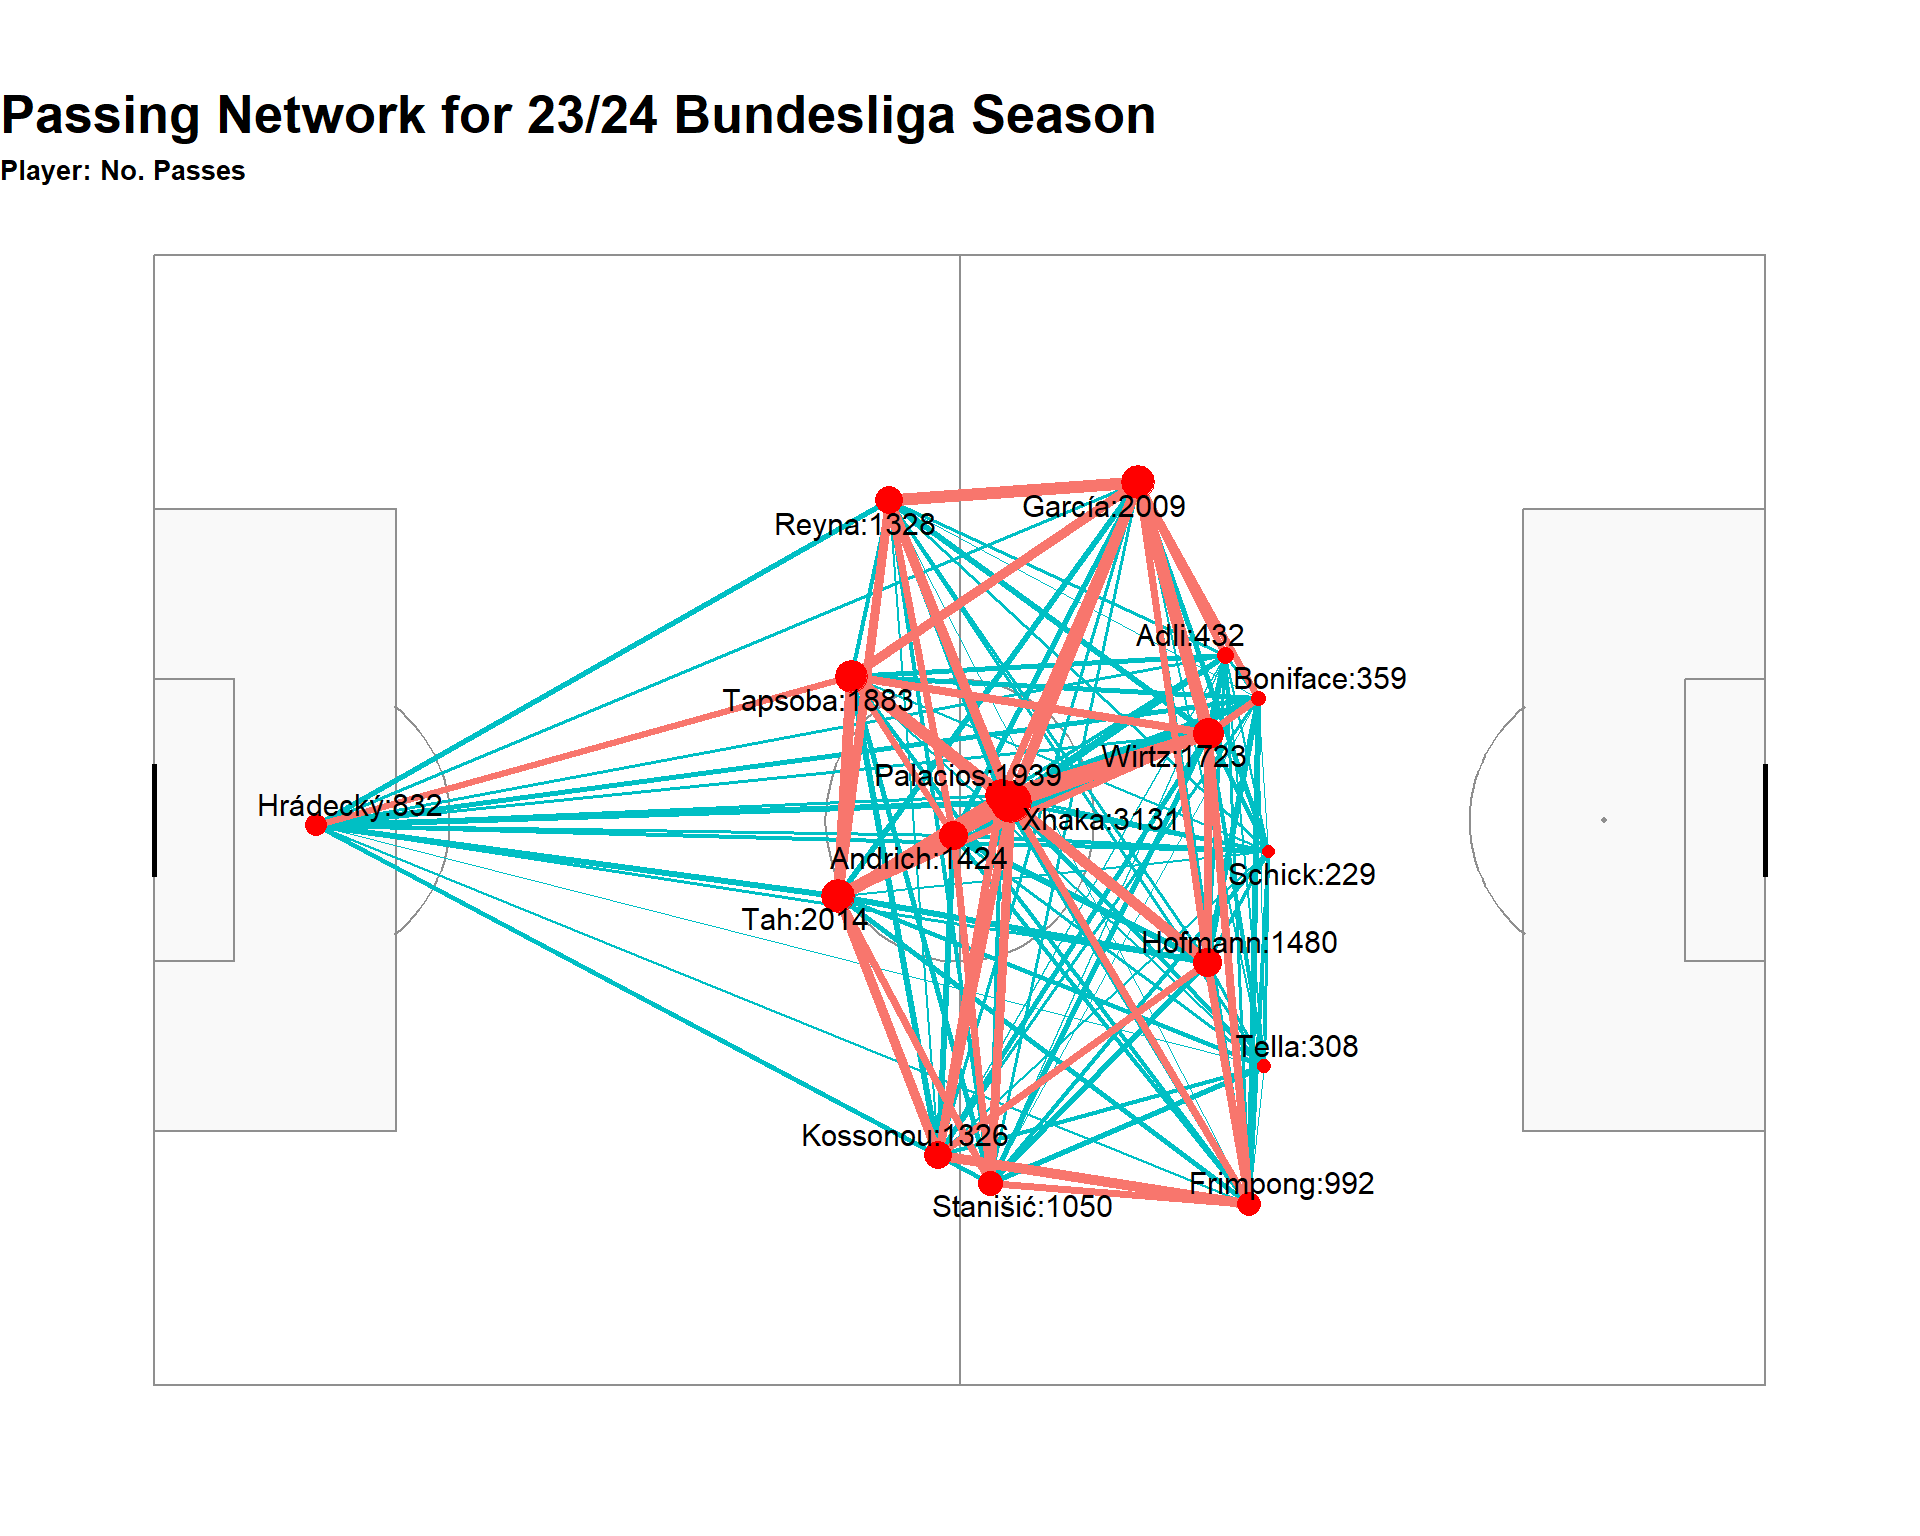
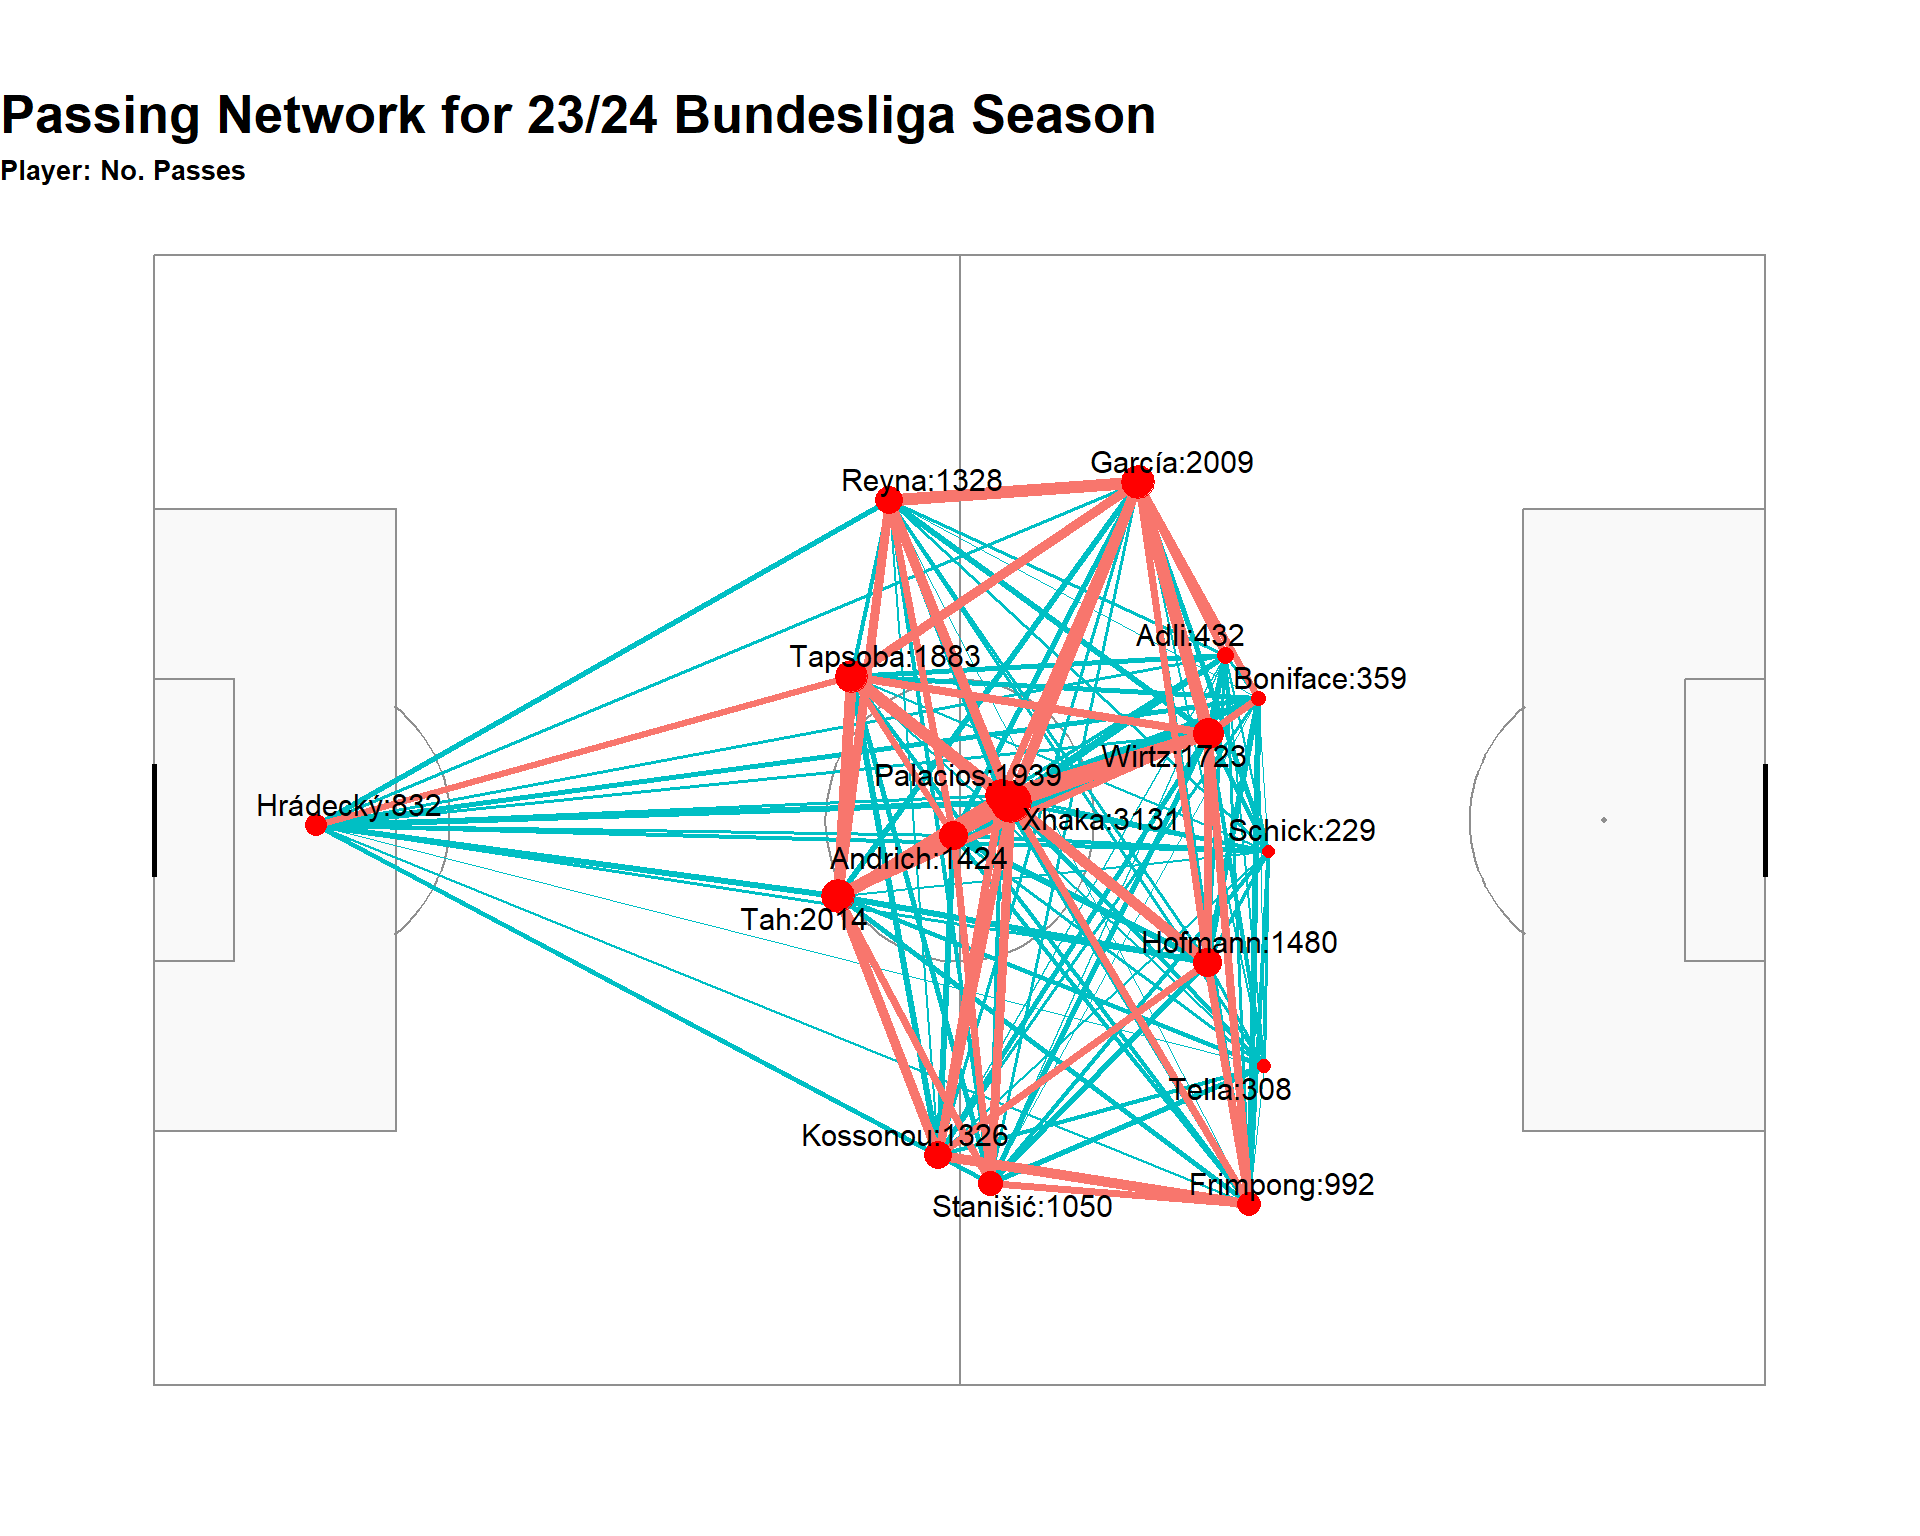
Built site for gh-pages

diff --git a/Injury Viz/post.html b/Injury Viz/post.html
@@ -209,12 +209,12 @@ window.Quarto = {
 <p>Some independent data scraping and visualisation of my own has painted a similar picture. Check out the correlation between average gameweeks missed per player and the final league position of their team. This visual takes into account the “top six” teams of the EPL. There is a striking correlation between the two variables (r = 0.32). The plot alone suggests that if a top six EPL team manage to keep their average-gameweeks-missed-per-player rate to below 3 they stand a very good chance of finishing in the top 3 (bar a couple of outliers). The lower a team’s average gameweeks missed per player, the higher the team is expected to finish at the end of the season.</p>
 <p>While one may think the phrase “striking correlation” to describe a correlation of r=0.32 might be a bit exaggerated, it is important to understand what this actually means. Given how multi-dimensional and highly complex predicting league position is, a variable with a correlation of r=0.32 explains roughly 10% of the variation in final league position through average gameweeks missed per player alone. That’s a fair amount of heavy lifting based off just one variable.</p>
 <p>Additionally, based off the same study, there is a hefty financial impact on an EPL club from player injuries too (as one would expect). When factoring in the amortization of transfer fees, baseline wage bills, and lost merit-based prize money, it is estimated that an EPL team loses an average of £45 million sterling per season solely due to injury-related decrements in performance.</p>
-<div id="139b6b40" class="cell" data-execution_count="2">
+<div id="4079ab46" class="cell" data-execution_count="2">
 <div class="cell-output cell-output-display">
 <div>            <script src="https://cdnjs.cloudflare.com/ajax/libs/mathjax/2.7.5/MathJax.js?config=TeX-AMS-MML_SVG"></script><script>if (window.MathJax && window.MathJax.Hub && window.MathJax.Hub.Config) {window.MathJax.Hub.Config({SVG: {font: "STIX-Web"}});}</script>                <script>window.PlotlyConfig = {MathJaxConfig: 'local'};</script>
[2 lines of base64/hex data omitted]
                             
-var gd = document.getElementById('1e8cc98b-b27d-48f1-9cc6-c2291bda30e7');
+var gd = document.getElementById('8e2a3076-c44a-42eb-b16b-be1d8a901f0d');
 var x = new MutationObserver(function (mutations, observer) {{
         var display = window.getComputedStyle(gd).display;
         if (!display || display === 'none') {{
@@ -242,12 +242,12 @@ if (outputEl) {{
 <p><br>
 </p>
 <p>We have clear evidence that injuries, and especially matches missed per player in the EPL have an immense impact on their team’s performance and what’s worse is that there is a clear trend that average gameweeks missed per player have increased over time. See the plot below.</p>
-<div id="60de7197" class="cell page-columns page-full" data-message="false" data-execution_count="3">
+<div id="38d42cf5" class="cell page-columns page-full" data-message="false" data-execution_count="3">
 <div class="cell-output cell-output-display column-page">
 <div>            <script src="https://cdnjs.cloudflare.com/ajax/libs/mathjax/2.7.5/MathJax.js?config=TeX-AMS-MML_SVG"></script><script>if (window.MathJax && window.MathJax.Hub && window.MathJax.Hub.Config) {window.MathJax.Hub.Config({SVG: {font: "STIX-Web"}});}</script>                <script>window.PlotlyConfig = {MathJaxConfig: 'local'};</script>
[2 lines of base64/hex data omitted]
                             
-var gd = document.getElementById('e97b58c4-9070-438d-8684-13795501361f');
+var gd = document.getElementById('242902d6-5a65-4e1d-b445-116551fbc9e2');
 var x = new MutationObserver(function (mutations, observer) {{
         var display = window.getComputedStyle(gd).display;
         if (!display || display === 'none') {{

diff --git a/Injury Prediction/post.html b/Injury Prediction/post.html
@@ -427,7 +427,7 @@ Figure&nbsp;1: Average Gameweeks Missed vs.&nbsp;League Finish
 </table>
 <p>Extensive EDA and necessary transformations (StandardScaler for columns with a normal distribution and Yeo-Johnson scaling for skewed data) were applied. These transformations help the model see the patterns in the data better as it places all the numbers on the same scale. Without transformations any column with large numbers like Speed_km_h_mean compared to columns with smaller numbers like ACWR will dominate the model during training.</p>
 <p>Two further features were added to the dataset, and that was event and time-to-event. Where event is a boolean value (0 or 1) denoting if a player got injured within the next seven days (1) or not (0). Time-to-event was the number of days leading up to the event (starting at 7 days back). See an example of the unscaled dataset below:</p>
-<div id="3aec6d96" class="cell" data-execution_count="1">
+<div id="3bc7cd54" class="cell" data-execution_count="1">
 <div class="cell-output cell-output-display" data-execution_count="1">
 <div>
 
@@ -620,8 +620,8 @@ Figure&nbsp;4: Injury Risk Overtime for Player C
 </figure>
 </div>
 <p>These plots visualise how the risk value corresponds with actual injury periods. Before each injury there is a peak in injury risk. This can serve as an incredibly valuable tool in managing player load and injury prevention. One may note that there are periods of heightened injury risk where no injury ultimately occurs. This is simply the nature of the sport. A player may be teetering on the edge, but through a combination of luck and good, intuitive management by the coaching staff, they avoid injury and remain available for those all-important gameweek fixtures.</p>
-<p>Notice the c-index score at the bottom left of each plot. The c-index means essentially how well the model ranks danger rather than predicting exact futures. Because sports injuries are relatively rare, an AI could theoretically be 99% “accurate” simply by guessing that no one ever gets hurt—which is completely useless to a coaching staff.</p>
-<p>Instead, the C-index grades the model like an Emergency Room triage nurse. Just as a triage nurse doesn’t predict exactly when a patient will heal but correctly prioritizes someone with chest pains over someone with a paper cut, the C-index evaluates prioritization. It looks at a player’s timeline and asks: If we randomly pick one healthy training day and one actual pre-injury day, did the model correctly assign a higher risk score to the dangerous day? A score of 0.50 means the model is effectively flipping a coin, 0.70 indicates a solid ranking ability, and anything over 0.80 means you have a highly reliable early-warning system to keep your squad on the pitch.</p>
+<p>Notice the C-index score at the bottom left of each plot. The c-index means essentially how well the model ranks danger rather than predicting exact futures. Because sports injuries are relatively rare, the model could theoretically be 99% “accurate” simply by guessing that no one ever gets hurt (which is completely useless to a coaching staff).</p>
+<p>Instead, the C-index grades the model like an Emergency Room triage nurse. Just as a triage nurse doesn’t predict exactly when a patient will heal but correctly prioritizes someone with chest pains over someone with a paper cut, the C-index evaluates prioritisation. It looks at a player’s timeline and asks: If we randomly pick one healthy training day and one actual pre-injury day, did the model correctly assign a higher risk score to the dangerous day? A score of 0.50 means the model is effectively flipping a coin, 0.70 indicates a solid ranking ability, and anything over 0.80 means you have a highly reliable early-warning system to keep your squad on the pitch.</p>
 <p>These risk scores are great at finding portions in the season where a player may get injured, but what does the coach or physio do about this? It will be very difficult to tell the coach to go easy on a player just because a blue line is high and not low. And then again, what does “go easy on a player” even mean? Does that mean don’t play them in the next match, give them a day off, just give them light drills, etc?</p>
 <p>SHAP analysis can answer these questions, not just on a global level but at a player specific level! Take a look at the SHAP values below for Player A and Player B.</p>
 <div id="fig-injury-plot" class="quarto-float quarto-figure quarto-figure-center anchored" data-fig-align="center">

diff --git a/xT/post.html b/xT/post.html
@@ -164,7 +164,7 @@ gtag('config', 'G-F43XL2R4CB', { 'anonymize_ip': true});
 <p><img src="plots/movement map/legend.png" class="img-fluid quarto-figure quarto-figure-center figure-img"></p>
 </figure>
 </div>
-<div class="cell column-page quarto-layout-panel" data-grid-template-columns="repeat(4, 1fr)" data-layout-nrow="2" data-layout-ncol="4">
+<div class="cell column-page quarto-layout-panel" data-layout-ncol="4" data-grid-template-columns="repeat(4, 1fr)" data-layout-nrow="2">
 <div class="quarto-layout-row">
 <div class="quarto-layout-cell" style="flex-basis: 25.0%;justify-content: center;">
 <p><img src="plots/movement map/Juventus_movement_map.png" class="img-fluid"></p>
@@ -219,7 +219,7 @@ gtag('config', 'G-F43XL2R4CB', { 'anonymize_ip': true});
 <p><img src="plots/shot frequency/legend.png" class="img-fluid quarto-figure quarto-figure-center figure-img"></p>
 </figure>
 </div>
-<div class="cell column-page quarto-layout-panel" data-grid-template-columns="repeat(4, 1fr)" data-layout-nrow="2" data-layout-ncol="4">
+<div class="cell column-page quarto-layout-panel" data-layout-ncol="4" data-grid-template-columns="repeat(4, 1fr)" data-layout-nrow="2">
 <div class="quarto-layout-row">
 <div class="quarto-layout-cell" style="flex-basis: 25.0%;justify-content: center;">
 <p><img src="plots/shot frequency/Juventus_shot_freq.png" class="img-fluid"></p>
@@ -269,7 +269,7 @@ gtag('config', 'G-F43XL2R4CB', { 'anonymize_ip': true});
 <p><img src="plots/goal frequency/legend.png" class="img-fluid quarto-figure quarto-figure-center figure-img"></p>
 </figure>
 </div>
-<div class="cell column-page quarto-layout-panel" data-grid-template-columns="repeat(4, 1fr)" data-layout-nrow="2" data-layout-ncol="4">
+<div class="cell column-page quarto-layout-panel" data-layout-ncol="4" data-grid-template-columns="repeat(4, 1fr)" data-layout-nrow="2">
 <div class="quarto-layout-row">
 <div class="quarto-layout-cell" style="flex-basis: 25.0%;justify-content: center;">
 <p><img src="plots/goal frequency/Juventus_goal_freq.png" class="img-fluid"></p>
@@ -319,7 +319,7 @@ gtag('config', 'G-F43XL2R4CB', { 'anonymize_ip': true});
 <p><img src="plots/xG/legend.png" class="img-fluid quarto-figure quarto-figure-center figure-img"></p>
 </figure>
 </div>
-<div class="cell column-page quarto-layout-panel" data-grid-template-columns="repeat(4, 1fr)" data-layout-nrow="2" data-layout-ncol="4">
+<div class="cell column-page quarto-layout-panel" data-layout-ncol="4" data-grid-template-columns="repeat(4, 1fr)" data-layout-nrow="2">
 <div class="quarto-layout-row">
 <div class="quarto-layout-cell" style="flex-basis: 25.0%;justify-content: center;">
 <p><img src="plots/xG/Juventus_xg.png" class="img-fluid"></p>

diff --git a/blog.html b/blog.html
@@ -182,7 +182,7 @@ window.Quarto = {
 
 <div class="quarto-listing quarto-listing-container-default" id="listing-listing">
 <div class="list quarto-listing-default">
-<div class="quarto-post image-right" data-index="0" data-categories="Rm9vdGJhbGw=" data-listing-date-sort="1779660000000" data-listing-file-modified-sort="1780004325676" data-listing-date-modified-sort="NaN" data-listing-reading-time-sort="20" data-listing-word-count-sort="3958">
+<div class="quarto-post image-right" data-index="0" data-categories="Rm9vdGJhbGw=" data-listing-date-sort="1779660000000" data-listing-file-modified-sort="1780005766294" data-listing-date-modified-sort="NaN" data-listing-reading-time-sort="20" data-listing-word-count-sort="3959">
 <div class="thumbnail"><a href="./Injury Prediction/post.html" class="no-external">
 
 <img loading="lazy" src="./Injury Prediction/images/injury_pred_thumbnail.jpg" class="thumbnail-image">
